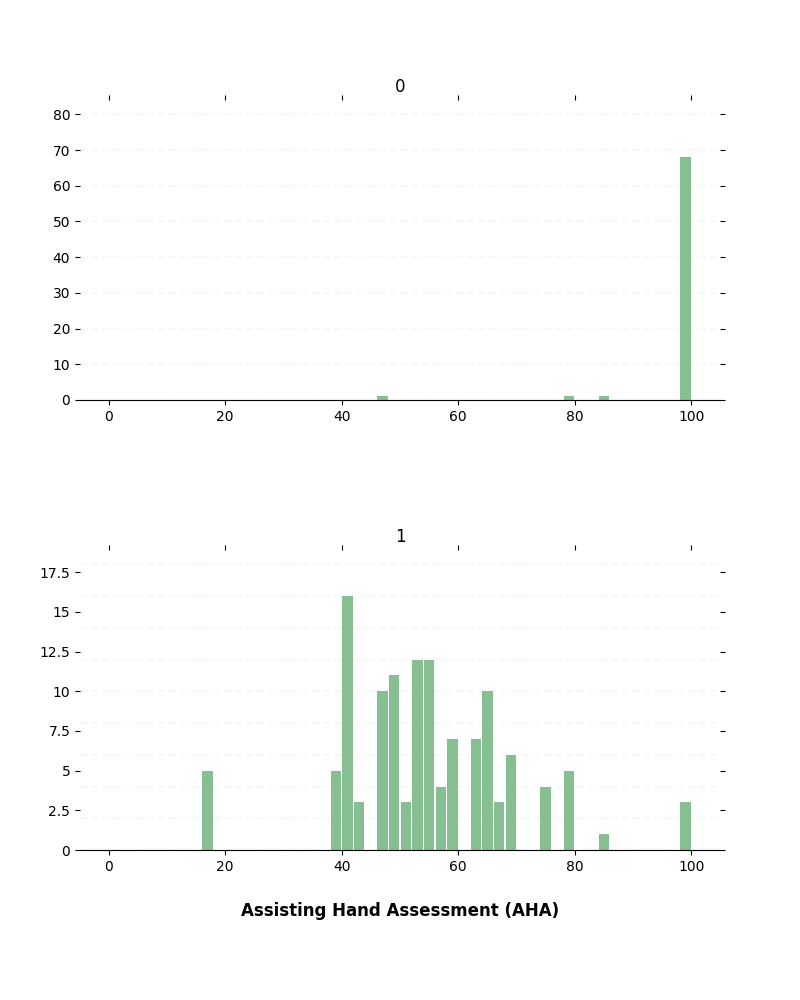
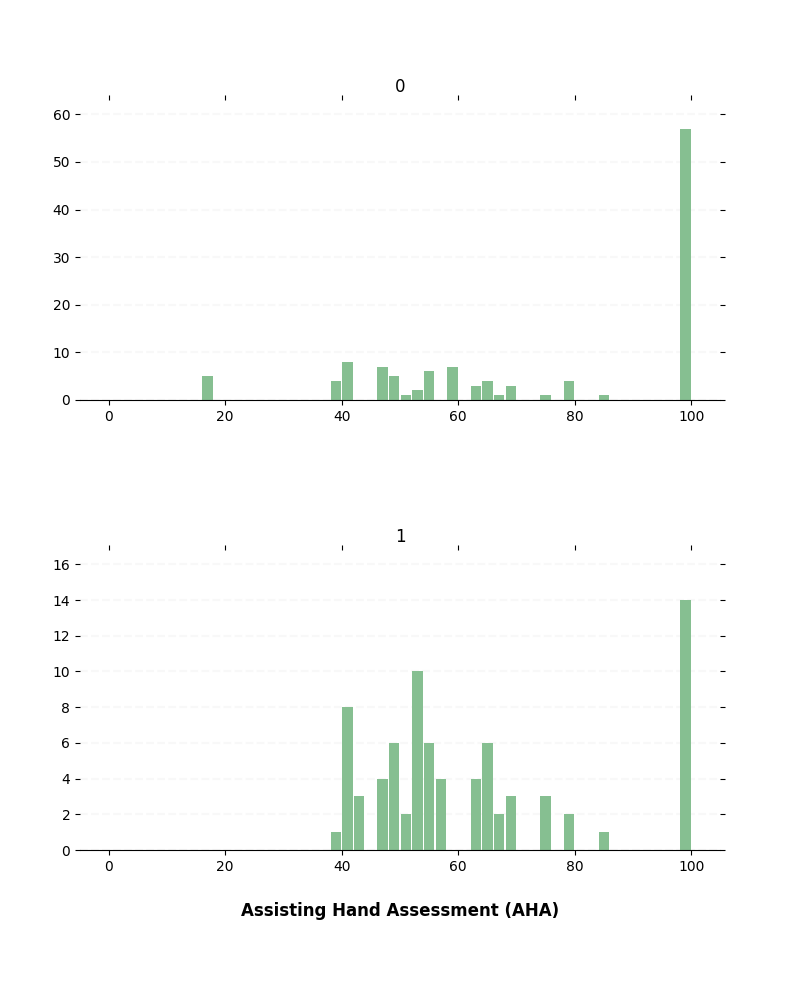
test

diff --git a/Blocco 1/cluster_week_samples.py b/Blocco 1/cluster_week_samples.py
@@ -6,8 +6,8 @@ import numpy as np
 
 
 ############
-folder = 'C:/Users/david/Documents/University/Tesi/Python AInCP/only AC/'
-#folder = 'C:/Users/giord/Downloads/only AC data/only AC/'
+#folder = 'C:/Users/david/Documents/University/Tesi/Python AInCP/only AC/'
+folder = 'C:/Users/giord/Downloads/only AC data/only AC/'
 
 model_name = 'KMEANS_K2_W600_kmeans++_dtw_dba'
 
@@ -57,7 +57,7 @@ for i in range (1,61):
     print("Inizio fase incrementi e stampe")
     for y in Y:
         # Presupponendo che i pazienti emiplegici siano nel cluster 0
-        if y == 0:
+        if y == 1:
             cluster_hemiplegic_samples += 1
         else:
             cluster_healthy_samples += 1    

diff --git a/Blocco 1/compulsive_trainer.py b/Blocco 1/compulsive_trainer.py
@@ -6,11 +6,11 @@ folder = 'C:/Users/giord/Downloads/only AC data/only AC/'
 patients = 60
 
 l_model_type=['KMeans'] #'KMeans', 'KMedoids', 'KernelKMeans'
-l_window_size=[300,600,900] # 3 values
+l_window_size=[300] # 3 values
 l_n_clusters=[2] # 1 values
 l_init_algorithm=['kmeans++'] # 1 values
-l_metric=['dtw'] # 1 values
-l_averaging_method=['dba'] # 1 values
+l_metric=['euclidean'] # 1 values
+l_averaging_method=['mean'] # 1 values
 
 
 
